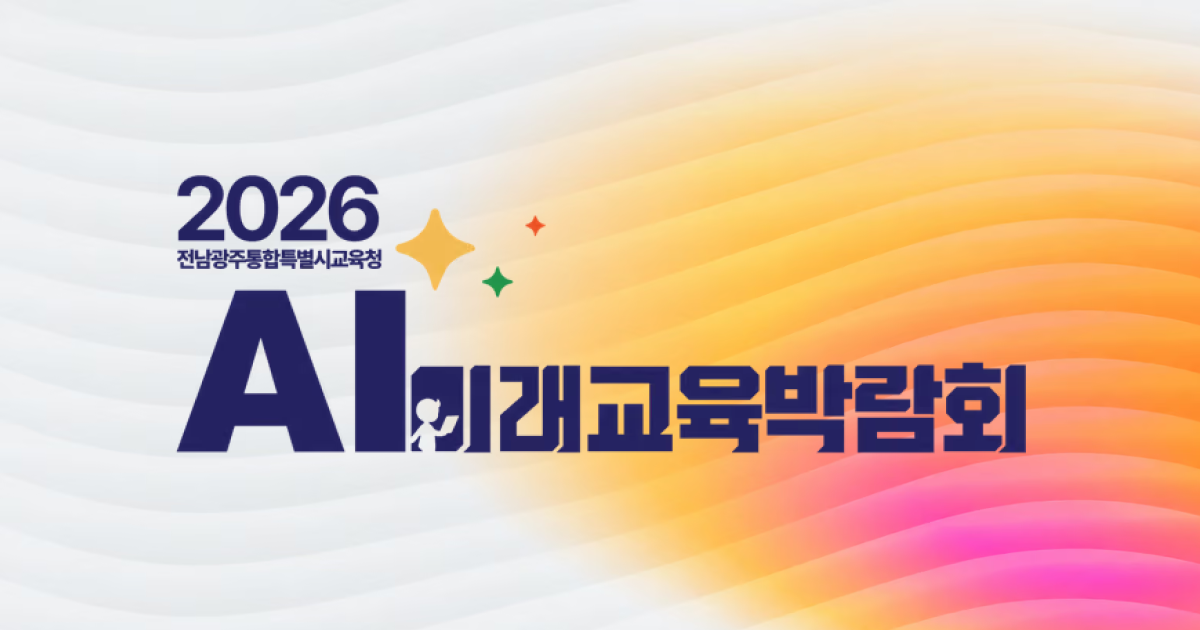
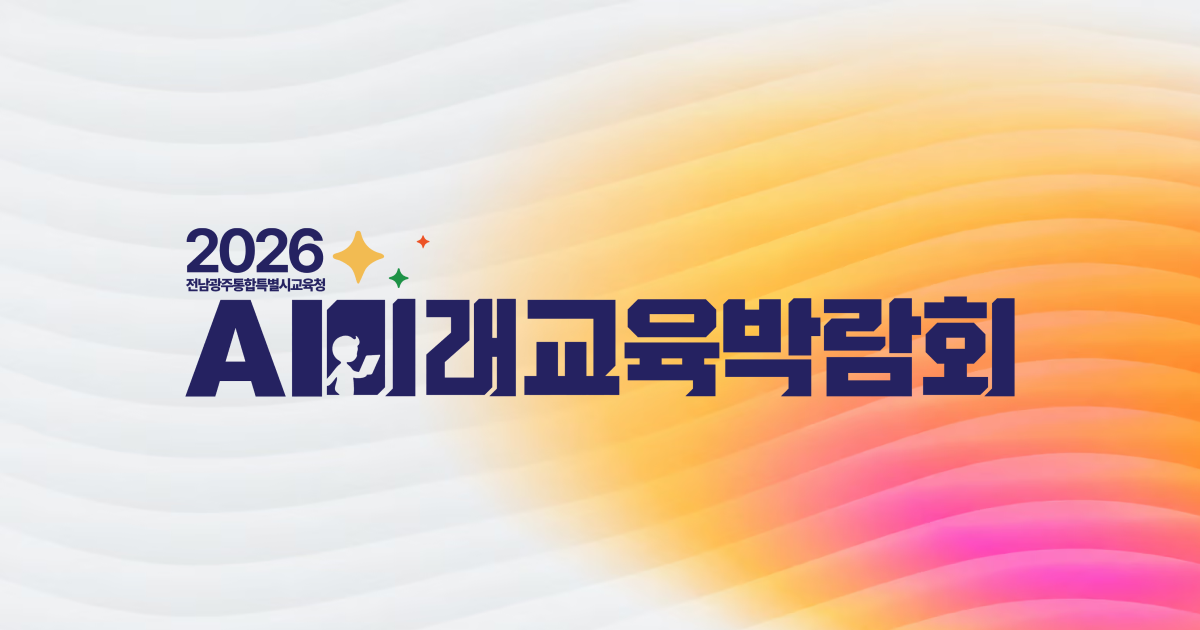
feat(home): 메인 히어로 시안 반영 및 새 로고·OG 이미지 적용

Changed region(s): [[0.1233, 0.2714, 0.8633, 0.7238], [0.4317, 0.3317, 0.4625, 0.3619]]

diff --git a/src/views/home/ui/HomePage.tsx b/src/views/home/ui/HomePage.tsx
@@ -10,11 +10,11 @@ import Icon from "@/shared/ui/Icon";
 import { getBackgroundImage } from "@/shared/lib/getBackgroundImage";
 import heroBg from "../../../../public/hero-bg.png";
 import logo from "../../../../public/logo.png";
+import logoStacked from "../../../../public/logo-stacked.png";
 
 const HERO_FACTS = [
-  { label: "일정", value: "2026.10.31.(토)-11.1.(일)" },
   { label: "장소", value: "전남광주통합특별시교육청AI교육원" },
-  { label: "대상", value: "학생 · 교원 · 일반 시민 누구나" },
+  { label: "대상", value: "관내 학생 · 교원 · 학부모 등" },
 ];
 
 export default function HomePage() {
@@ -39,24 +39,39 @@ export default function HomePage() {
           aria-hidden="true"
         />
         <div className="relative mx-auto max-w-7xl px-4 py-16 sm:px-6 sm:py-20">
-          <div className="grid grid-cols-1 gap-8 lg:grid-cols-[9fr_11fr] xl:grid-cols-[2fr_3fr] lg:items-stretch">
-            <div className="flex flex-col justify-between">
+          <div className="grid grid-cols-1 gap-8 lg:grid-cols-[2fr_3fr] xl:grid-cols-[3fr_5fr] lg:items-stretch">
+            <div className="flex flex-col">
               <div>
+                {/* 영상과 나란히 놓이는 lg 이상에서는 세로형 로고, 한 줄로 쌓이는 좁은 화면에서는 가로형 로고를 쓴다. */}
                 <h1>
                   <span
                     role="img"
                     aria-label="2026 전남광주통합특별시교육청 AI미래교육박람회"
-                    className="block aspect-[1200/438] h-32 bg-contain bg-no-repeat sm:h-48"
-                    style={{ backgroundImage: getBackgroundImage(logo, { shouldPreload: true, blur: false, width: 526 }) }}
+                    className="block aspect-[2400/612] w-[351px] max-w-full bg-contain bg-no-repeat sm:w-[526px] lg:hidden"
+                    style={{
+                      backgroundImage: getBackgroundImage(logo, { shouldPreload: true, blur: false, width: 526, media: "(max-width: 1023.98px)" }),
+                    }}
+                  />
+                  <span
+                    role="img"
+                    aria-label="2026 전남광주통합특별시교육청 AI미래교육박람회"
+                    className="hidden aspect-[1080/1008] w-[300px] bg-contain bg-no-repeat lg:block xl:w-[340px]"
+                    style={{
+                      backgroundImage: getBackgroundImage(logoStacked, { shouldPreload: true, blur: false, width: 340, media: "(min-width: 1024px)" }),
+                    }}
                   />
                 </h1>
-                <p className="mt-4 max-w-xl text-[22px] font-extrabold leading-[1.3] text-primary-50 sm:text-[29px]">AI로 연결되는 배움, 함께 여는 미래</p>
+                <p className="mt-2 max-w-xl text-balance break-keep text-[22px] font-extrabold leading-[1.3] text-primary-50 sm:text-[30px]">AI로 연결되는 배움, 함께 여는 미래</p>
               </div>
 
-              <Button href="/apply/register" size="l" className="mt-8 w-fit">
-                사전등록하기
-                <Icon name="arrow-right" className="h-6 w-6 transition-transform duration-150 ease-out group-hover:translate-x-1" />
-              </Button>
+              <div className="mt-4">
+                <p className="text-[28px] font-extrabold leading-none tracking-tight text-primary-50 sm:text-[34px]">
+                  10.31.<sup className="-top-[1em] ml-0.5 text-[0.4em] font-bold">토</sup> – 11.01.<sup className="-top-[1em] ml-0.5 text-[0.4em] font-bold">일</sup>
+                </p>
+                <p className="mt-3 w-fit bg-primary-50 px-4 py-2 text-body-s font-bold text-fg-on-primary sm:text-body-m">
+                  시작 시간 9:30 ~ 끝나는 시간 16:00
+                </p>
+              </div>
             </div>
 
             <div>
@@ -64,13 +79,33 @@ export default function HomePage() {
             </div>
           </div>
 
-          <div className="mt-10 flex w-full flex-col items-start gap-4 rounded-xlarge bg-bg-canvas px-6 py-5 lg:flex-row lg:items-center lg:justify-between lg:gap-8">
-            {HERO_FACTS.map((f) => (
-              <div key={f.label} className="flex items-center gap-3">
-                <Badge variant="solid-primary">{f.label}</Badge>
-                <span className="text-body-s font-bold text-fg-1 sm:text-body-m lg:whitespace-nowrap">{f.value}</span>
-              </div>
-            ))}
+          <div className="mt-10 grid grid-cols-1 gap-4 lg:grid-cols-[3fr_2fr] lg:gap-6">
+            <div className="flex flex-col items-start gap-4 rounded-xlarge bg-bg-canvas px-6 py-5 sm:flex-row sm:flex-wrap sm:items-center sm:gap-x-8 sm:gap-y-3">
+              {HERO_FACTS.map((f) => (
+                <div key={f.label} className="flex items-center gap-3">
+                  <Badge variant="solid-primary">{f.label}</Badge>
+                  <span className="text-body-s font-bold text-fg-1 sm:whitespace-nowrap sm:text-body-m">{f.value}</span>
+                </div>
+              ))}
+            </div>
+
+            {/* 주기적으로 빛이 스치는 메인 CTA. 동작 줄이기 설정에서는 빛을 끈다. */}
+            <Button
+              href="/apply/register"
+              size="l"
+              fullWidth
+              className="relative overflow-hidden bg-linear-to-r from-primary-60 via-primary-50 to-primary-40 shadow-3 hover:from-primary-50 hover:via-primary-40 lg:h-full lg:rounded-xlarge lg:text-heading-s"
+            >
+              <span
+                aria-hidden
+                className="pointer-events-none absolute inset-y-0 left-0 w-1/3 animate-[cta-shine_4s_ease-in-out_infinite] bg-gradient-to-r from-transparent via-white/25 to-transparent motion-reduce:hidden"
+              />
+              사전등록하기
+              <Icon
+                name="arrow-right"
+                className="h-6 w-6 transition-transform duration-200 ease-out group-hover:translate-x-1.5 motion-reduce:transition-none"
+              />
+            </Button>
           </div>
         </div>
       </section>

diff --git a/src/shared/lib/getBackgroundImage.ts b/src/shared/lib/getBackgroundImage.ts
@@ -11,13 +11,20 @@ import { preload } from "react-dom";
  * - blur면 정적 import가 만든 blurDataURL을 아래 레이어로 깔아, 원본이 오기 전에도 흐린 사진이 보이게 한다.
  *   투명 PNG는 blur가 회색 박스로 보이므로 끈다.
  * - unoptimized면 최적화 없이 원본 파일을 그대로 쓴다(SVG처럼 최적화 대상이 아닌 이미지용).
+ * - media를 주면 그 미디어 쿼리에 맞는 화면에서만 preload한다. 화면 폭에 따라 다른 이미지를 보여줄 때 쓴다.
  */
 export function getBackgroundImage(
   src: StaticImageData,
-  { shouldPreload = false, unoptimized = false, blur = true, width }: { shouldPreload?: boolean; unoptimized?: boolean; blur?: boolean; width?: number } = {},
+  {
+    shouldPreload = false,
+    unoptimized = false,
+    blur = true,
+    width,
+    media,
+  }: { shouldPreload?: boolean; unoptimized?: boolean; blur?: boolean; width?: number; media?: string } = {},
 ) {
   if (unoptimized) {
-    if (shouldPreload) preload(src.src, { as: "image" });
+    if (shouldPreload) preload(src.src, { as: "image", media });
     return `url("${src.src}")`;
   }
 
@@ -26,7 +33,7 @@ export function getBackgroundImage(
   );
   const srcSet = props.srcSet ?? `${props.src} 1x`;
 
-  if (shouldPreload) preload(props.src, { as: "image", imageSrcSet: srcSet });
+  if (shouldPreload) preload(props.src, { as: "image", imageSrcSet: srcSet, media });
 
   const imageSet = srcSet
     .split(", ")

diff --git a/src/app/globals.css b/src/app/globals.css
@@ -245,6 +245,17 @@ a {
   }
 }
 
+/* 메인 CTA 위를 비스듬한 빛줄기가 왼쪽 밖에서 오른쪽 밖으로 스치고, 남은 시간은 쉰다. */
+@keyframes cta-shine {
+  0% {
+    transform: translateX(-120%) skewX(-20deg);
+  }
+  35%,
+  100% {
+    transform: translateX(420%) skewX(-20deg);
+  }
+}
+
 /* Fades the leading/trailing edge of a horizontally scrollable container
    when there's more content to scroll to, and hides the fade once scrolled
    all the way to that edge. */
